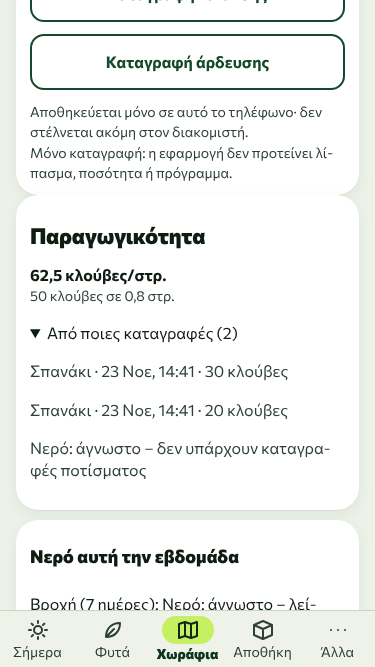
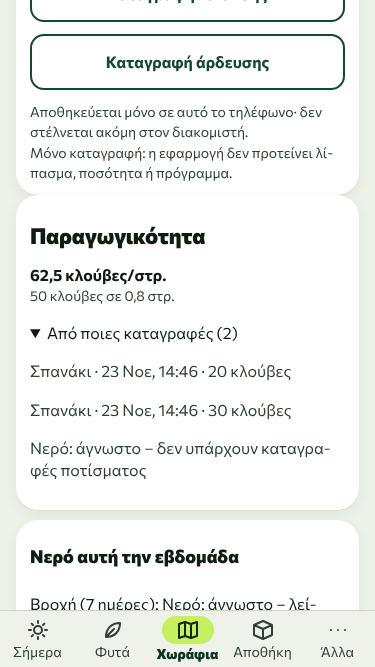
Parcel history: fertilising, irrigation and observations join the timeline
Only records that exist: field_work (phone-local) and observation rows of this parcel;
deleted observations and other parcels are left out; typed quantities shown as typed.

Claude-Session: https://claude.ai/code/session_01Kyi5pvQqyRio2HMDhKx7Mu

Changed region(s): [[0.4987, 0.5997, 0.792, 0.6297], [0.4987, 0.5397, 0.792, 0.5697]]

diff --git a/app/src/ui/ParcelDetail.tsx b/app/src/ui/ParcelDetail.tsx
@@ -1,6 +1,7 @@
 import { useEffect, useState } from 'preact/hooks';
 import { activeFarm, db } from '../db';
 import { loadCuts, type CutRecord } from '../cuts/cuts';
+import type { Work } from '../fieldwork/fieldwork';
 import { ParcelCut, METHOD_KEYS } from './ParcelCut';
 import { formatDate, formatDateTime, t, type I18nKey } from '../i18n';
 import { formatArea, formatQty } from '../i18n/format';
@@ -27,16 +28,18 @@ import { nameOf } from './screens';
 import { useRows } from './useRows';
 import { useWeather } from './useWeather';
 
+const OBS_KEYS: Record<string, I18nKey> = { dew: 'worker.kind.dew', frost_damage: 'worker.kind.frost_damage', disease: 'worker.kind.disease', pest: 'worker.kind.pest', other: 'worker.kind.other' };
 const text = (v: unknown): string => (typeof v === 'string' ? v : typeof v === 'number' ? String(v) : '');
 const DASH = '\u2014';
 
 /** Tapped from the parcel list (prototype «Parcel detail»): a sketch, the facts, today's weather, the plantings and the last sprayings on THIS parcel. Everything is read from the same records; nothing is decided here. */
 export function ParcelDetail({ parcel, onBack, onEdit, onAnalyses, readOnly }: { parcel: Row; onBack: () => void; onEdit: () => void; onAnalyses: () => void; readOnly: boolean }) {
-  const labelRows = useRows('label_uses'); const plantings = useRows('plantings'); const crops = useRows('crops'); const links = useRows('job_plantings'); const sprays = useRows('job_spray'); const products = useRows('products'); const harvests = useRows('job_harvest');
+  const labelRows = useRows('label_uses'); const plantings = useRows('plantings'); const crops = useRows('crops'); const links = useRows('job_plantings'); const sprays = useRows('job_spray'); const products = useRows('products'); const harvests = useRows('job_harvest'); const observations = useRows('observations');
   const weather = useWeather();
   const [weatherOpen, setWeatherOpen] = useState(false);
   const [cropTips, setCropTips] = useState<Row>();
   const [cuts, setCuts] = useState<CutRecord[]>([]);
+  const [work, setWork] = useState<Work[]>([]);
   const reloadCuts = () => void loadCuts(db, activeFarm.value).then(setCuts);
   useEffect(reloadCuts, [parcel.id]);
   const mine = (plantings.rows ?? []).filter((p) => p.parcel_id === parcel.id && !p.deleted_at);
@@ -46,12 +49,15 @@ export function ParcelDetail({ parcel, onBack, onEdit, onAnalyses, readOnly }: {
   const last = effectiveSprays((sprays.rows ?? []).filter((s) => jobIds.has(s.job_id))).sort((a, b) => text(b.sprayed_at).localeCompare(text(a.sprayed_at))).slice(0, 5);
   const stream = parcelTimeline(parcel.id, plantings.rows ?? [], links.rows ?? [], effectiveSprays(sprays.rows ?? []), harvests.rows ?? [],
     { crop: (id) => nameOf(crops.rows?.find((c) => c.id === id) ?? {}), product: (id) => nameOf(products.rows?.find((p) => p.id === id) ?? {}) },
-    cuts.filter((c) => c.parcel_id === parcel.id));
+    cuts.filter((c) => c.parcel_id === parcel.id), { work, observations: observations.rows ?? [] });
   const eventLine = (e: TimelineEvent): string => (e.kind === 'sown' ? t('timeline.sown', { crop: e.crop })
     : e.kind === 'cut' ? t('timeline.cut', { method: t(METHOD_KEYS[e.method]) })
+    : e.kind === 'fertilise' ? [t('timeline.fertilise', { form: e.nForm }), e.kgPerStr ? t('timeline.fertilise.kg', { n: e.kgPerStr }) : ''].filter(Boolean).join(' · ')
+    : e.kind === 'irrigate' ? [t('timeline.irrigate'), e.m3 ? t('timeline.irrigate.m3', { n: e.m3 }) : '', e.minutes ? t('timeline.irrigate.min', { n: e.minutes }) : ''].filter(Boolean).join(' · ')
+    : e.kind === 'observation' ? [t('timeline.observation', { what: t((OBS_KEYS[e.what] ?? 'worker.kind.other') as I18nKey) }), e.note ?? ''].filter(Boolean).join(' · ')
     : e.kind === 'harvest' ? t('timeline.harvest', { crop: e.crop, n: formatQty(e.crates) })
       : [t('timeline.spray', { product: e.product }), e.reiUntil ? t('timeline.rei', { d: formatDateTime(e.reiUntil) }) : '', e.phiUntil ? t('timeline.phi', { d: formatDateTime(e.phiUntil) }) : ''].filter(Boolean).join(' · '));
-  const eventDate = (e: TimelineEvent): string => (e.kind === 'sown' || e.kind === 'cut' ? (validDate(e.at) ? formatDate(e.at) : '') : formatDateTime(e.at));
+  const eventDate = (e: TimelineEvent): string => (e.kind === 'sown' || e.kind === 'cut' || e.kind === 'fertilise' || e.kind === 'irrigate' ? (validDate(e.at) ? formatDate(e.at) : '') : formatDateTime(e.at));
   const waterCrops = [...new Set(mine.map((p) => String(p.crop_id)))].flatMap((cid) => { const crop = crops.rows?.find((c) => c.id === cid); return crop ? [{ crop, areas: mine.filter((p) => String(p.crop_id) === cid).map((p) => text(p.area_str)) }] : []; });
   const days = parseDays(weather.find((w) => w.parcel_id === parcel.id)?.days);
   const wx = dayOf(days, athensToday(new Date()) ?? '');
@@ -113,8 +119,8 @@ export function ParcelDetail({ parcel, onBack, onEdit, onAnalyses, readOnly }: {
         </button>;
       })}
       {cropTips && <CropTips slug={text(cropTips.slug)} onClose={() => setCropTips(undefined)} />}
-      <FieldWorkCard parcelId={String(parcel.id)} days={days} />
-      <ParcelYield parcel={parcel} plantings={plantings.rows ?? []} harvests={harvests.rows ?? []} cropName={(pid) => nameOf(crops.rows?.find((c) => c.id === mine.find((p) => p.id === pid)?.crop_id) ?? {})} />
+      <FieldWorkCard parcelId={String(parcel.id)} days={days} onChange={setWork} />
+      <ParcelYield parcel={parcel} work={work} plantings={plantings.rows ?? []} harvests={harvests.rows ?? []} cropName={(pid) => nameOf(crops.rows?.find((c) => c.id === mine.find((p) => p.id === pid)?.crop_id) ?? {})} />
       <WaterCard days={days} crops={waterCrops} />
       <h2>{t('detail.sprays')}</h2>
       {last.length === 0 && <p class="muted">{t('spray.empty')}</p>}

diff --git a/app/src/summary/timeline.ts b/app/src/summary/timeline.ts
@@ -1,4 +1,5 @@
 import type { Row } from '../db/schema';
+import type { Work } from '../fieldwork/fieldwork';
 import { athensInstant } from '../spray/time';
 
 // «Χρονολόγιο» of a parcel: ONE read-only stream of what the records say happened on it (sowing, sprayings, harvests), newest first.
@@ -10,11 +11,14 @@ export type TimelineEvent =
   | { kind: 'sown'; id: string; at: string; crop: string }
   | { kind: 'spray'; id: string; at: string; product: string; phiUntil?: string; reiUntil?: string }
   | { kind: 'harvest'; id: string; at: string; crop: string; crates: string }
-  | { kind: 'cut'; id: string; at: string; method: 'shredder' | 'hand' | 'other' };
+  | { kind: 'cut'; id: string; at: string; method: 'shredder' | 'hand' | 'other' }
+  | { kind: 'fertilise'; id: string; at: string; nForm: string; kgPerStr?: string }
+  | { kind: 'irrigate'; id: string; at: string; m3?: string; minutes?: string }
+  | { kind: 'observation'; id: string; at: string; what: string; note?: string };
 
 const DATE = /^\d{4}-\d{2}-\d{2}$/;
 const ZONED_TIME = /^\d{4}-\d{2}-\d{2}T\d{2}:\d{2}:\d{2}(?:\.\d+)?(?:Z|[+-]\d{2}:\d{2})$/;
-const KIND_ORDER: Record<TimelineEvent['kind'], number> = { harvest: 0, spray: 1, cut: 2, sown: 3 };
+const KIND_ORDER: Record<TimelineEvent['kind'], number> = { harvest: 0, spray: 1, observation: 2, irrigate: 3, fertilise: 4, cut: 5, sown: 6 };
 
 function timelineInstant(at: string): number | undefined {
   const zoned = DATE.test(at) ? athensInstant(`${at}T00:00`) : ZONED_TIME.test(at) ? at : undefined;
@@ -34,12 +38,18 @@ export function parcelTimeline(
   names: { crop: (id: unknown) => string; product: (id: unknown) => string },
   /** cut / clean records of THIS parcel (kept on the phone) */
   cuts: readonly { id: string; day: string; method: 'shredder' | 'hand' | 'other' }[] = [],
+  /** the owner's fertilising / irrigation records (kept on the phone) and the observations (rows) – only the ones of THIS parcel are used */
+  more: { work?: readonly Work[]; observations?: readonly Row[] } = {},
 ): TimelineEvent[] {
   const mine = plantings.filter((p) => p.parcel_id === parcelId && !p.deleted_at);
   const ids = new Set(mine.map((p) => String(p.id)));
   const jobs = new Set(links.filter((l) => ids.has(String(l.planting_id))).map((l) => String(l.job_id)));
   const cropOf = (plantingId: unknown): string => names.crop(mine.find((p) => p.id === plantingId)?.crop_id);
   const events: TimelineEvent[] = [
+    ...(more.work ?? []).filter((w) => w.parcel_id === parcelId).map((w): TimelineEvent => (w.kind === 'fertilise'
+      ? { kind: 'fertilise', id: w.id, at: w.day, nForm: w.n_form ?? '', ...(w.n_kg_per_str !== undefined ? { kgPerStr: w.n_kg_per_str } : {}) }
+      : { kind: 'irrigate', id: w.id, at: w.day, ...(w.m3 !== undefined ? { m3: w.m3 } : {}), ...(w.minutes !== undefined ? { minutes: w.minutes } : {}) })),
+    ...(more.observations ?? []).filter((o) => o.parcel_id === parcelId && !o.deleted_at && text(o.observed_at) !== '').map((o): TimelineEvent => ({ kind: 'observation', id: String(o.id), at: text(o.observed_at), what: text(o.kind), ...(text(o.note) !== '' ? { note: text(o.note) } : {}) })),
     ...cuts.map((c): TimelineEvent => ({ kind: 'cut', id: c.id, at: c.day, method: c.method })),
     ...mine.filter((p) => text(p.sown_on) !== '').map((p): TimelineEvent => ({ kind: 'sown', id: String(p.id), at: text(p.sown_on), crop: names.crop(p.crop_id) })),
     ...sprays.filter((s) => jobs.has(String(s.job_id)) && text(s.sprayed_at) !== '').map((s): TimelineEvent => ({

diff --git a/app/tests/e2e/parcel-history.spec.ts b/app/tests/e2e/parcel-history.spec.ts
@@ -1,0 +1,45 @@
+import { expect, test } from '@playwright/test';
+import { iphone } from './helpers/iphone';
+import { setup, closeHistory } from './helpers/farm';
+
+const SHOTS = '../docs/design/screenshots-2026-11-23';
+// One parcel history from the records that exist: sowing, fertilising, irrigation (with its m³ per στρέμμα), an observation and a harvest – newest first, Athens time.
+test('the parcel history lists sowing, fertilising, irrigation, an observation and a harvest from the stored records, and the recorded water is 7 m³/στρ. on 0,5 στρ.', async ({ page }) => {
+  const errors = await iphone(page);
+  await setup(page, true);
+  await closeHistory(page);
+  await page.getByTestId('quick-open').click();
+  await page.getByTestId('quick-observe').click();
+  await page.getByRole('button', { name: 'Κάτω Κάμπος' }).click();
+  await page.getByTestId('kind-pest').click();
+  await page.getByTestId('observation-form').locator('input.input').first().fill('κηλίδες στα φύλλα');
+  await page.getByTestId('observe-save').click();
+  await page.locator('nav.tabs [data-tab="today"]').click();
+  await page.getByTestId('harvest-open').click();
+  await page.getByTestId('harvest-chip').filter({ hasText: 'Σπανάκι' }).first().click();
+  await page.getByTestId('harvest-crates').fill('4');
+  await page.getByTestId('harvest-cutby-option').first().click();
+  await page.getByTestId('harvest-save').click();
+  await page.locator('nav.tabs [data-tab="parcels"]').click();
+  await page.getByTestId('parcel-open').first().click();
+  const card = page.getByTestId('fieldwork');
+  await card.getByTestId('work-add-fertilise').click();
+  await card.getByTestId('work-nform').fill('ουρία');
+  await card.getByTestId('work-nkg').fill('4,5');
+  await card.getByTestId('work-save').click();
+  await card.getByTestId('work-add-irrigate').click();
+  await card.getByTestId('work-m3').fill('3,5');
+  await card.getByTestId('work-save').click();
+  await expect(card.getByTestId('work-item')).toHaveCount(2);
+  const lines = page.getByTestId('timeline').locator('> *');
+  await expect(page.getByTestId('timeline')).toContainText('Σπορά: Σπανάκι');
+  await expect(page.getByTestId('timeline')).toContainText('Λίπανση: ουρία · 4,5 kg N/στρ.');
+  await expect(page.getByTestId('timeline')).toContainText('Άρδευση · 3,5 m³');
+  await expect(page.getByTestId('timeline')).toContainText('Παρατήρηση: Εχθρός · κηλίδες στα φύλλα');
+  await expect(page.getByTestId('timeline')).toContainText('Συγκομιδή: Σπανάκι · 4 κλούβες');
+  expect(await lines.count()).toBe(5);                                              // five events, none twice
+  await expect(page.getByTestId('water-recorded')).toContainText('7 m³/στρ. νερό');  // 3,5 m³ ÷ 0,5 στρ.
+  await page.getByTestId('timeline').scrollIntoViewIfNeeded();
+  await page.screenshot({ path: `${SHOTS}/parcel-history-timeline.png` });
+  expect(errors).toEqual([]);
+});

diff --git a/app/tests/unit/timeline.test.ts b/app/tests/unit/timeline.test.ts
@@ -58,3 +58,30 @@ describe('the parcel timeline: one read-only stream of what happened on THIS par
     expect(e[0]).toMatchObject({ kind: 'cut', method: 'shredder', at: '2026-11-21' });
   });
 });
+
+describe('the parcel timeline also carries fertilising, irrigation and observations of THIS parcel (only what is stored)', () => {
+  const plantings = [planting('p1', 'A', 'c1', '2026-10-01')];
+  const work = [
+    { id: 'w1', parcel_id: 'A', kind: 'fertilise' as const, day: '2026-11-12', n_form: 'ουρία', n_kg_per_str: '4,5' },
+    { id: 'w2', parcel_id: 'A', kind: 'irrigate' as const, day: '2026-11-15', m3: '3,5' },
+    { id: 'w3', parcel_id: 'B', kind: 'irrigate' as const, day: '2026-11-16', m3: '9' },
+  ];
+  const obs: Row[] = [
+    { id: 'o1', farm_id: 'f', parcel_id: 'A', kind: 'pest', observed_at: '2026-11-14T08:00:00.000Z', note: 'κηλίδες' },
+    { id: 'o2', farm_id: 'f', parcel_id: 'A', kind: 'dew', observed_at: '2026-11-13T08:00:00.000Z', deleted_at: '2026-11-13T09:00:00Z' },
+    { id: 'o3', farm_id: 'f', parcel_id: 'B', kind: 'dew', observed_at: '2026-11-13T08:00:00.000Z' },
+  ];
+  it('orders them newest first with the other events, keeps each record as typed, and leaves out other parcels and deleted observations', () => {
+    const e = parcelTimeline('A', plantings, [], [], [], names, [], { work, observations: obs });
+    expect(e.map((x) => `${x.kind}:${x.id}`)).toEqual(['irrigate:w2', 'observation:o1', 'fertilise:w1', 'sown:p1']);
+    expect(e[0]).toMatchObject({ m3: '3,5' });
+    expect(e[2]).toMatchObject({ nForm: 'ουρία', kgPerStr: '4,5' });
+    expect(e[1]).toMatchObject({ what: 'pest', note: 'κηλίδες' });
+  });
+  it('a record without a quantity shows no quantity (never a zero)', () => {
+    const e = parcelTimeline('A', plantings, [], [], [], names, [], { work: [{ id: 'w', parcel_id: 'A', kind: 'irrigate', day: '2026-11-15', minutes: '40' }] });
+    const i = e.find((x) => x.kind === 'irrigate');
+    expect(i).toBeDefined();
+    expect('m3' in i!).toBe(false);
+  });
+});

diff --git a/app/src/ui/ParcelYield.tsx b/app/src/ui/ParcelYield.tsx
@@ -1,6 +1,4 @@
-import { useEffect, useState } from 'preact/hooks';
-import { activeFarm, db } from '../db';
-import { loadWork, type Work } from '../fieldwork/fieldwork';
+import type { Work } from '../fieldwork/fieldwork';
 import { formatDateTime, t, type I18nKey } from '../i18n';
 import { formatArea, formatDerived, formatQty } from '../i18n/format';
 import { parcelWater, parcelYield } from '../summary/parcel-yield';
@@ -12,10 +10,7 @@ const YIELD_WHY: Record<string, I18nKey> = { 'no-area': 'ui.yield.why.area', 'no
 const WATER_WHY: Record<string, I18nKey> = { 'no-area': 'ui.yield.why.area', 'no-records': 'ui.water.why.records', 'missing-m3': 'ui.water.why.m3' };
 const one = (s: string): string => formatDerived(parseFloat(s), 1);
 
-export function ParcelYield({ parcel, plantings, harvests, cropName }: { parcel: Row; plantings: readonly Row[]; harvests: readonly Row[]; cropName: (plantingId: string) => string }) {
-  const farm = activeFarm.value;
-  const [work, setWork] = useState<Work[]>([]);
-  useEffect(() => { void loadWork(db, farm).then(setWork); }, [farm, parcel.id]);
+export function ParcelYield({ parcel, plantings, harvests, work, cropName }: { parcel: Row; work: readonly Work[]; plantings: readonly Row[]; harvests: readonly Row[]; cropName: (plantingId: string) => string }) {
   const y = parcelYield(parcel, plantings, harvests);
   const w = parcelWater(parcel, work);
   const waterWhy = w.known ? '' : t(WATER_WHY[w.reason] as I18nKey, { n: String(w.missing) });

diff --git a/app/src/ui/FieldWorkCard.tsx b/app/src/ui/FieldWorkCard.tsx
@@ -24,11 +24,11 @@ const lineOf = (w: Work): string => {
   return [t('ui.work.irrigate'), w.minutes ? t('ui.work.minutes', { v: w.minutes }) : '', w.m3 ? t('ui.work.m3', { v: w.m3 }) : ''].filter((x) => x !== '').join(' · ');
 };
 
-export function FieldWorkCard({ parcelId, days }: { parcelId: string; days: readonly Day[] }) {
+export function FieldWorkCard({ parcelId, days, onChange }: { parcelId: string; days: readonly Day[]; onChange?: (all: Work[]) => void }) {
   const farm = activeFarm.value; const today = athensToday(new Date()) ?? '1970-01-01';
   const [all, setAll] = useState<Work[]>([]); const [kind, setKind] = useState<'fertilise' | 'irrigate'>(); const [bad, setBad] = useState(false);
   const [day, setDay] = useState(today); const [nForm, setNForm] = useState(''); const [nKg, setNKg] = useState(''); const [minutes, setMinutes] = useState(''); const [m3, setM3] = useState('');
-  const load = async () => setAll(await loadWork(db, farm));
+  const load = async () => { const stored = await loadWork(db, farm); setAll(stored); onChange?.(stored); };
   useEffect(() => { void load(); }, [farm]);
   const mine = all.filter((w) => w.parcel_id === parcelId).sort((a, b) => b.day.localeCompare(a.day)).slice(0, MAX_SHOWN);
   const open = (k: 'fertilise' | 'irrigate') => { setKind(k); setBad(false); setDay(today); setNForm(''); setNKg(''); setMinutes(''); setM3(''); };
